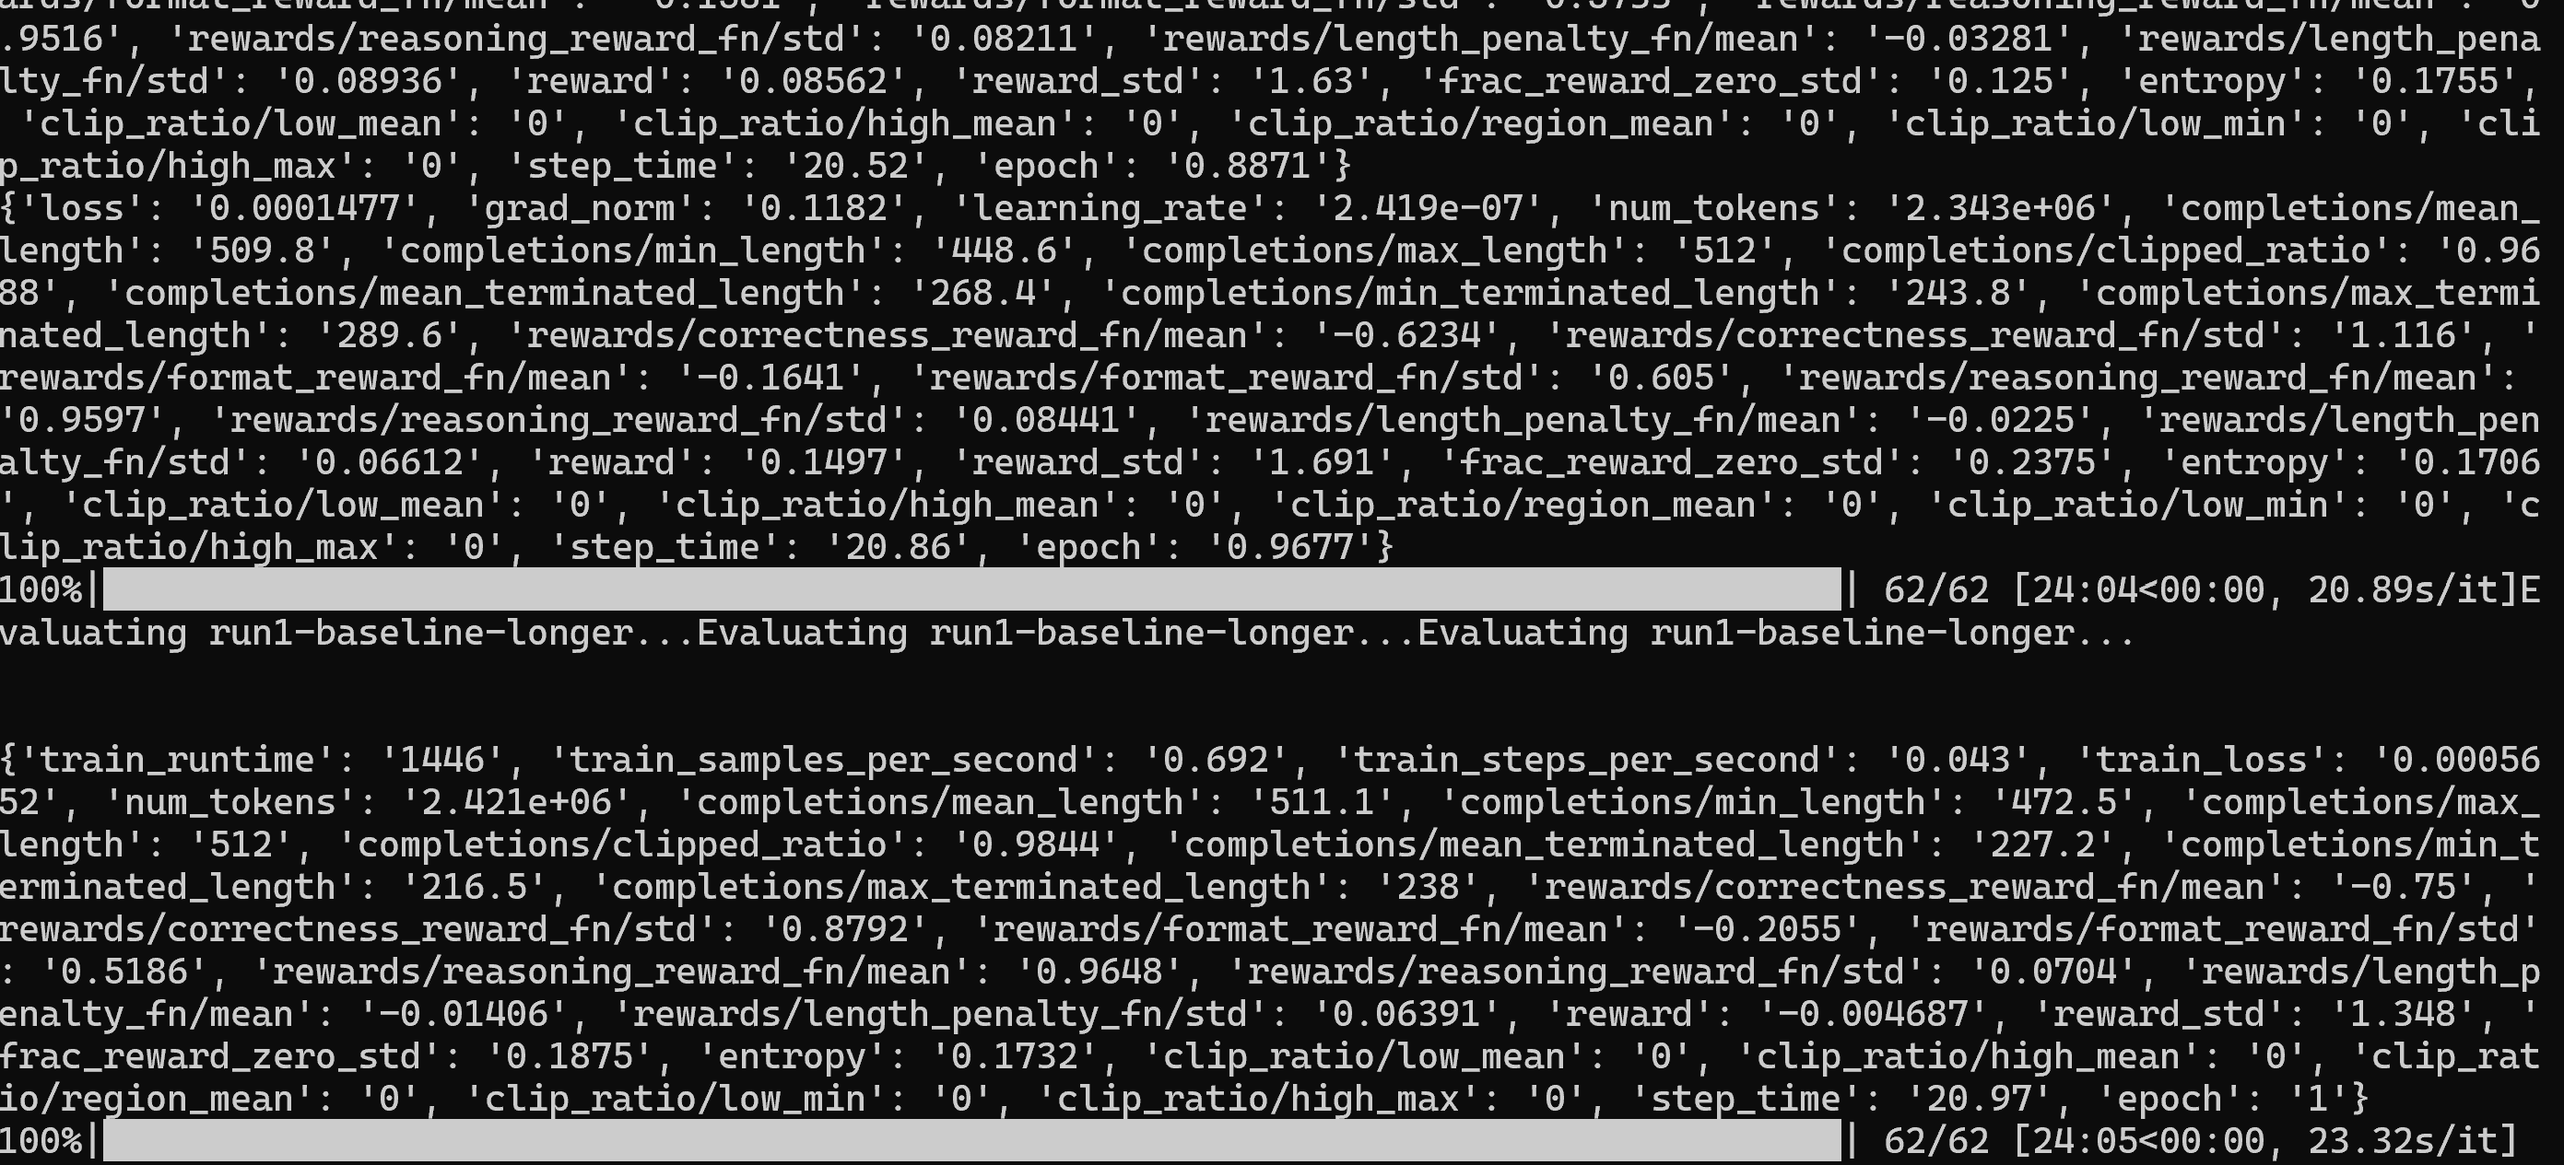
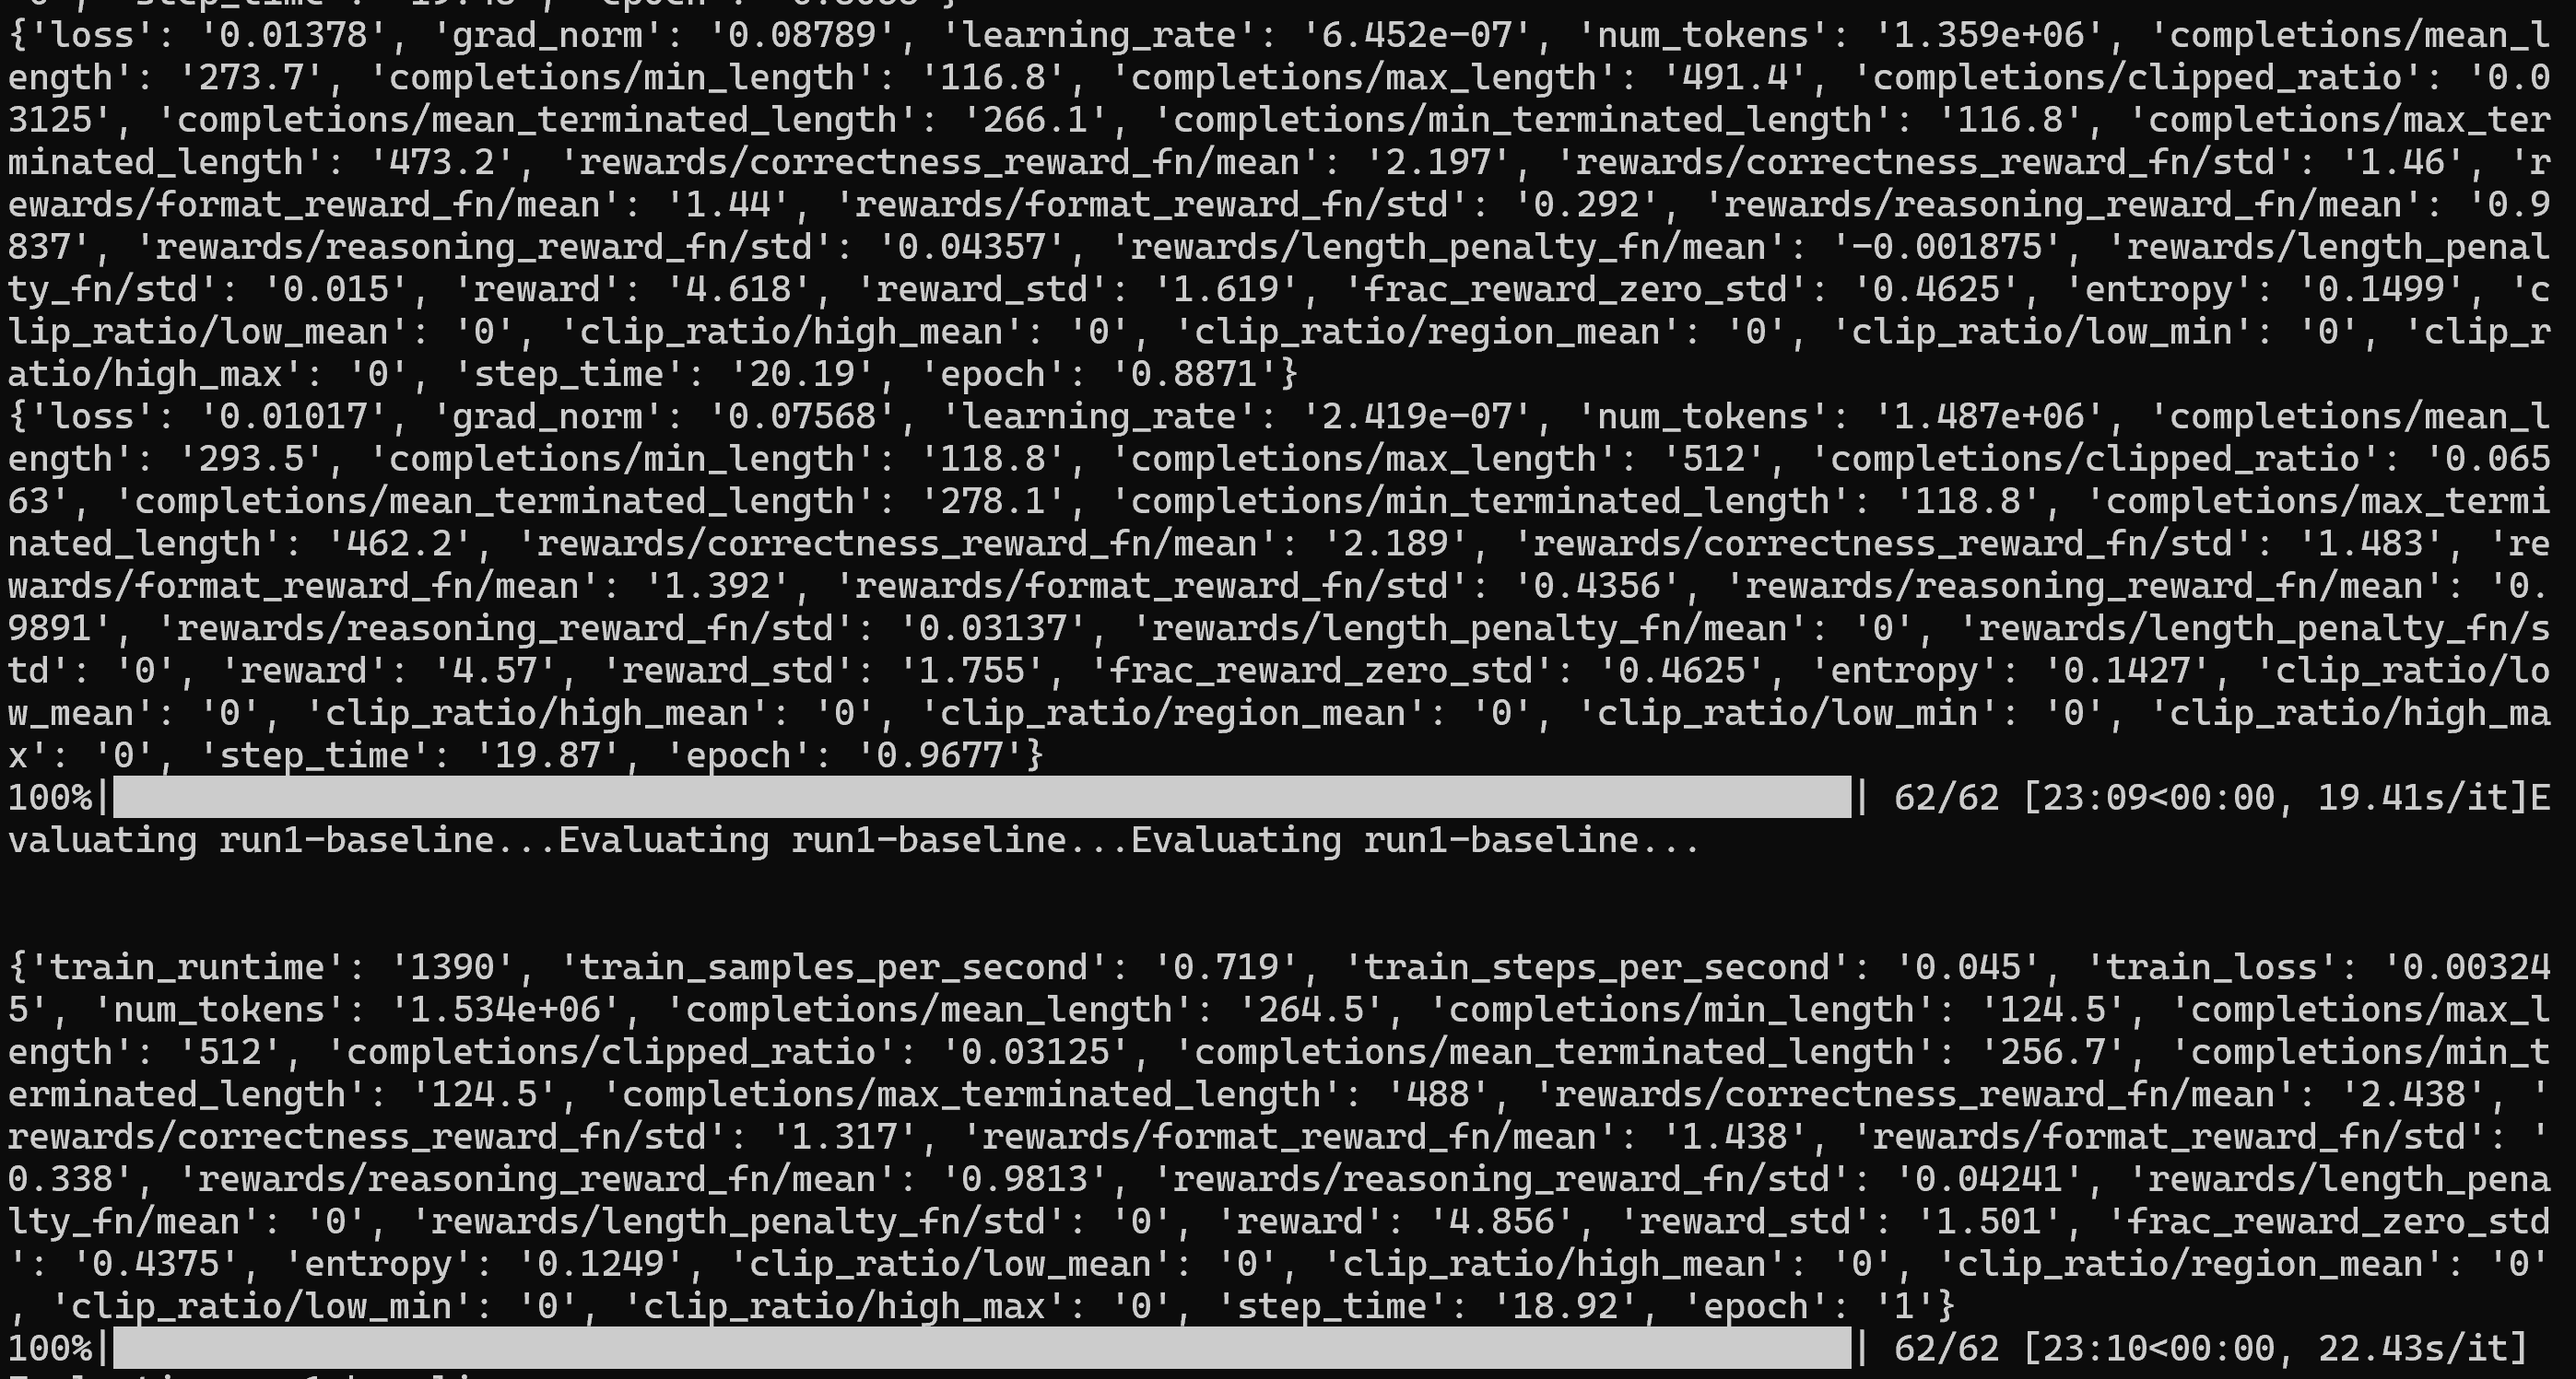
updated

diff --git a/hecateqwengrpo5runs.md b/hecateqwengrpo5runs.md
@@ -632,6 +632,12 @@ accelerate launch --num_processes 4 grpo_5runs_sweep.py
 
 ![GRPO Training Run](images/hecateqwengrpo5runs-2.png)
 
+![GRPO Training Run](images/hecateqwengrpo5runs-3.png)
+
+![GRPO Training Run](images/hecateqwengrpo5runs-4.png)
+
+![GRPO Training Run](images/hecateqwengrpo5runs-5.png
+
 - Run informationis saved in
 
 ```
@@ -643,3 +649,14 @@ accelerate launch --num_processes 4 grpo_5runs_sweep.py
 ```
 cat /lustre/fsw/general_sa/bbalakreshna/grpo-results-sweep/sweep_analytics.json
 ```
+> Results
+
+## 🏆 GRPO 5-Run Sweep — Final Results
+
+| Run | Config | Accuracy | Loss | Time |
+|-----|--------|----------|------|------|
+| run1-baseline | LR 5e-6, 4 gen, LoRA r=16 | 72% | 0.0034 | 23 min |
+| run2-high-lr-more-gen | LR 2e-5, 8 gen, LoRA r=32 | 74% | 0.0087 | 48 min |
+| **run3-moderate-lr** ✅ | **LR 1e-5, 4 gen, LoRA r=32** | **76%** | **0.0052** | **21 min** |
+| run4-large-lora | LR 2e-6, 4 gen, LoRA r=64 | 74% | 0.0018 | 21 min |
+| run5-max-exploration | LR 8e-6, 16 gen, LoRA r=32 | 70% | 0.0099 | 39 min |
